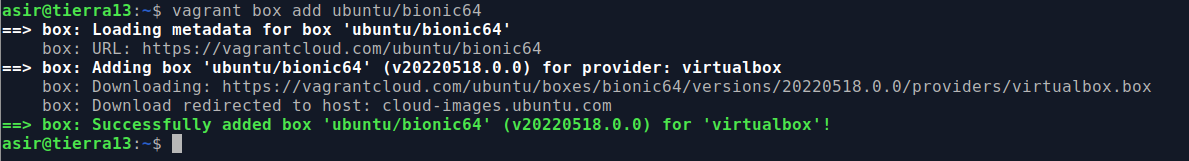
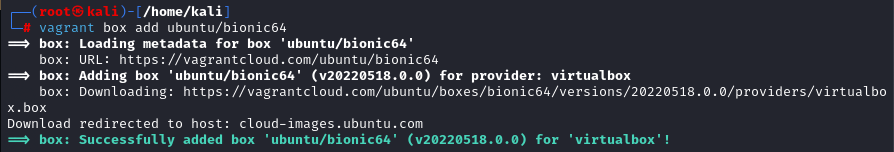
.

Changed region(s): [[0.0, 0.0, 1.0, 1.0]]

diff --git a/tema-6/instalacion-vagrant/readme.md b/tema-6/instalacion-vagrant/readme.md
@@ -1,6 +1,19 @@
 # Instalación desatendida con vagrant
 
+# 1. Proyecto: Añadir cajas
+
+## 1.1 Imagen, caja o box
+
 Añado la box de vagrant llamada **ubuntu/bionic64**.
 
 ![](./img/01.png)
 
+Compruebo que se ha añadido la box.
+
+![](./img/02.png)
+
+## 1.2 Directorio
+
+Creo el directorio **roberto01-va1box.d**
+
+![](./img/03.png)
